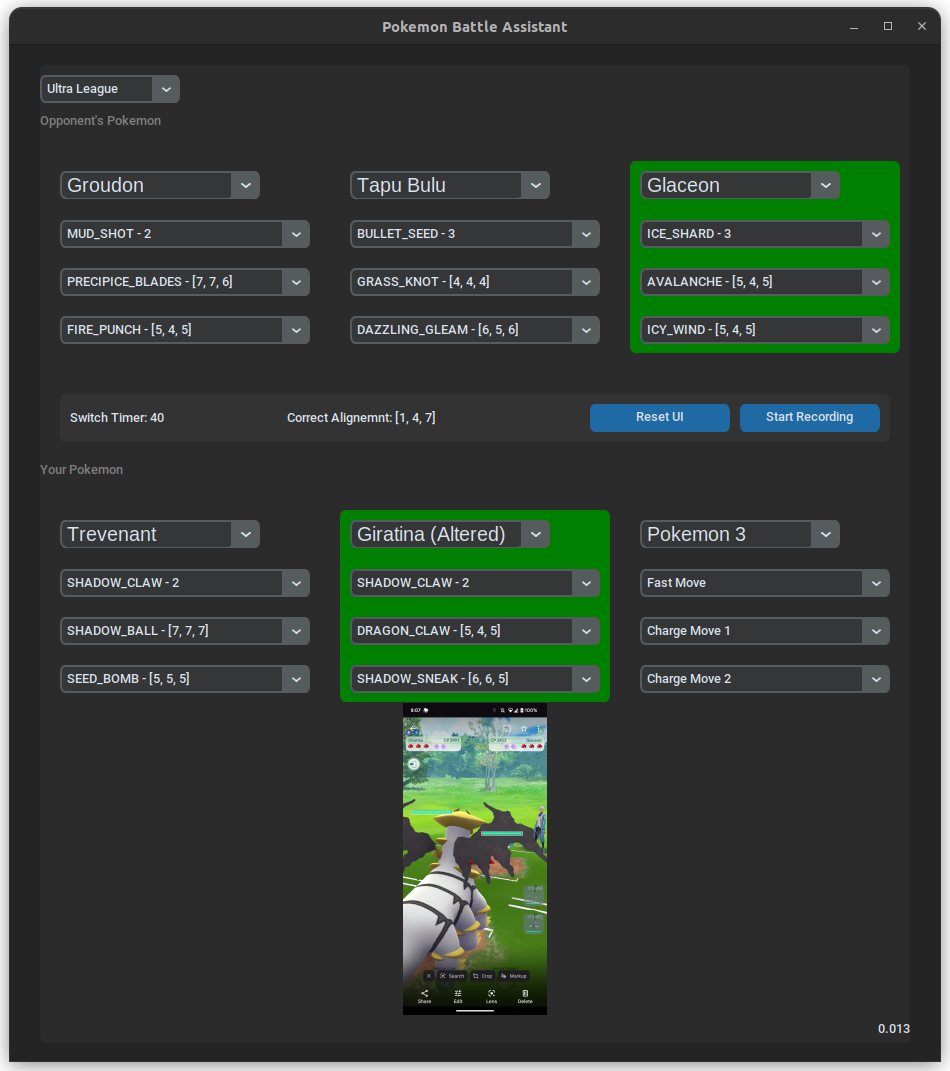
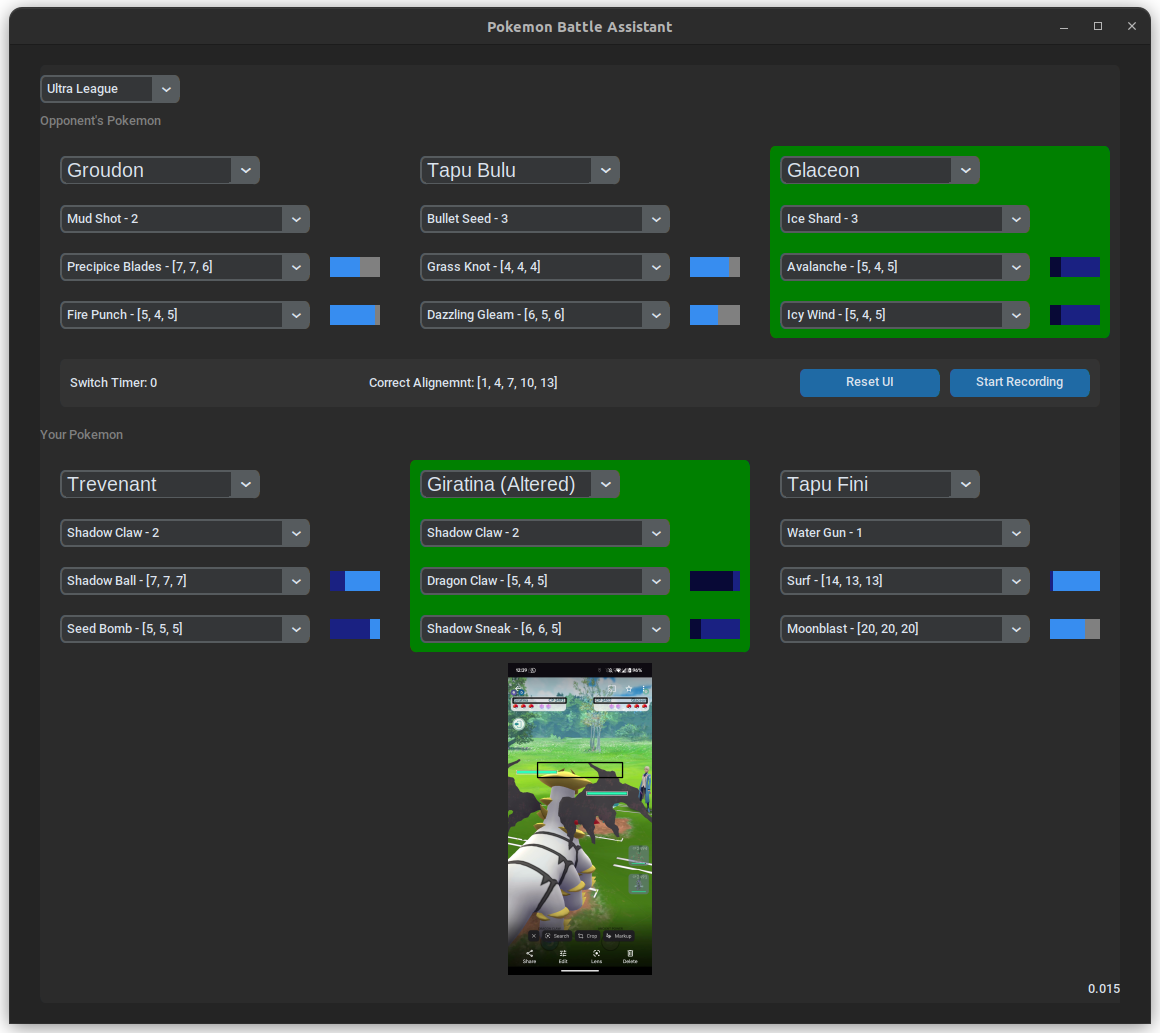
complete integration of energy accumulation and consumption (not fully working properly) / fixed reset ui

diff --git a/main.py b/main.py
@@ -160,6 +160,8 @@ class PokemonBattleAssistant(ctk.CTk):
         self.prev_opp_roi_img = np.array([])
         self.threshold = 500
         
+        self.my_info_match = None
+        self.opp_info_match = None
         self.league = None
         self.league_pok = None
 
@@ -245,17 +247,18 @@ class PokemonBattleAssistant(ctk.CTk):
 
     def charge_move_progress(self):
         for side in ['opp','me']:
-            num = self.player_map[side].current_pokemon_index
-            chosen_pk_ind = self.player_map[side].ui_chosen_pk_ind[num]
-            
-            fast_mv = self.player_map[side].pokemons[num][chosen_pk_ind].ui_chosen_moveset[0]
-            for i in [1,2]:
-                charge_mv = self.player_map[side].pokemons[num][chosen_pk_ind].ui_chosen_moveset[i]
-                accum_energy = self.player_map[side].pokemons[num][chosen_pk_ind].charge_moves[charge_mv].accum_energy[fast_mv]
-                progress = self.find_label(side,num,f'charge_move{i}_progress')
-                colors = self.progress_bar_color(accum_energy)
-                progress.set(colors[0])
-                progress.configure(fg_color=colors[1],progress_color=colors[2])
+            if self.player_map[side].initialized:
+                num = self.player_map[side].current_pokemon_index
+                chosen_pk_ind = self.player_map[side].ui_chosen_pk_ind[num]
+                
+                fast_mv = self.player_map[side].pokemons[num][chosen_pk_ind].ui_chosen_moveset[0]
+                for i in [1,2]:
+                    charge_mv = self.player_map[side].pokemons[num][chosen_pk_ind].ui_chosen_moveset[i]
+                    accum_energy = self.player_map[side].pokemons[num][chosen_pk_ind].charge_moves[charge_mv].accum_energy[fast_mv]
+                    progress = self.find_label(side,num,f'charge_move{i}_progress')
+                    colors = self.progress_bar_color(accum_energy)
+                    progress.set(colors[0])
+                    progress.configure(fg_color=colors[1],progress_color=colors[2])
                 
 
     def progress_bar_color(self,energy):
@@ -300,11 +303,30 @@ class PokemonBattleAssistant(ctk.CTk):
             print('releasing video')
             self.out.release()
 
-            
+    def extract_thrown_move(self,ocr_output):
+        match = re.search(r'(.+?) used (.+)', ocr_output)
+        if match:
+            pokemon, move = match.groups()
+            my_pk = self.my_player.pk_battle_name[self.my_player.current_pokemon_index]
+            opp_pk = self.opp_player.pk_battle_name[self.opp_player.current_pokemon_index]
+            closest = utils.closest_name(pokemon,[my_pk,opp_pk])
+            if closest == my_pk:
+                self.my_player.pokemon_energy_consumer(move)
+            elif closest == opp_pk:
+                self.opp_player.pokemon_energy_consumer(move)
+            else:
+                print("Message info did not match")
+                
+            return pokemon, move
+        else:
+            return None, None
+                
     def reset_ui(self):
 
         self.prev_my_roi_img = np.array([])
         self.prev_opp_roi_img = np.array([])
+        self.my_info_match = None
+        self.opp_info_match = None
         self.league = None
         self.league_pok = None
 
@@ -317,19 +339,21 @@ class PokemonBattleAssistant(ctk.CTk):
 
         self.current_opp_pokemon_index = None
         self.current_my_pokemon_index = None
-        for number in range(len(self.my_pokemon_frames)):
-            self.update_label('me',number, 'pokemon_name_label', f'Pokemon {number+1}')
-            for move,move_disp in zip(self.move_type,self.move_type_disp):
-                self.update_label('me',number, move, move_disp)
-        for number in range(len(self.opp_pokemon_frames)):
-            self.update_label('opp',number, 'pokemon_name_label', f'Pokemon {number+1}')
-            for move,move_disp in zip(self.move_type,self.move_type_disp):
-                self.update_label('opp',number, move, move_disp)
+        for side in ['opp','me']:
+            for number in range(len(self.frames_map[side])):
+                self.update_label(side,number, 'pokemon_name_label', f'Pokemon {number+1}')
+                for move,move_disp in zip(self.move_type,self.move_type_disp):
+                    self.update_label(side,number, move, move_disp)
+                for charge_mv_num in [1,2]:
+                    progress = self.find_label(side,number,f'charge_move{charge_mv_num}_progress')
+                    progress.set(0)
+                    colors = self.progress_bar_color(0)
+                    progress.configure(fg_color=colors[1],progress_color=colors[2])
+                self.highlight_off(self.frames_map[side][number])
+
         self.switch_timer_label.configure(text=f"Switch Timer: ")
         self.correct_alignment_label.configure(text="Correct Alignemnt: ")
-        for my_frame,opp_frame in zip(self.my_pokemon_frames,self.opp_pokemon_frames):
-            self.highlight_off(my_frame)
-            self.highlight_off(opp_frame)
+
 
     def vid_stream(self):
         while self.record_vid:
@@ -404,20 +428,20 @@ class PokemonBattleAssistant(ctk.CTk):
                         self.league_combobox.set(self.league)
                     
                 # Extract Pokémon names
-                my_info_match = re.search(r'([A-Z][a-z]+(?:\s[A-Z][a-z]+)?)', my_info)
-                opp_info_match = re.search(r'([A-Z][a-z]+(?:\s[A-Z][a-z]+)?)', opp_info)
+                self.my_info_match = re.search(r'([A-Z][a-z]+(?:\s[A-Z][a-z]+)?)', my_info)
+                self.opp_info_match = re.search(r'([A-Z][a-z]+(?:\s[A-Z][a-z]+)?)', opp_info)
 
                 if self.league:
-                    if my_info_match and opp_info_match:
-                        my_info_name = my_info_match.group(0)
-                        opp_info_name = opp_info_match.group(0)
+                    if self.my_info_match and self.opp_info_match:
+                        my_info_name = self.my_info_match.group(0)
+                        opp_info_name = self.opp_info_match.group(0)
 
-                        my_pk = match.load_pk_data(my_info_name,pokemon_names,pokemon_details,moves,self.league_pok)
-                        opp_pk = match.load_pk_data(opp_info_name,pokemon_names,pokemon_details,moves,self.league_pok)
+                        my_pk, my_pk_name = match.load_pk_data(my_info_name,pokemon_names,pokemon_details,moves,self.league_pok)
+                        opp_pk, opp_pk_name = match.load_pk_data(opp_info_name,pokemon_names,pokemon_details,moves,self.league_pok)
 
 
-                        update_me = self.my_player.add_pokemon(my_pk)
-                        update_opp = self.opp_player.add_pokemon(opp_pk)
+                        update_me = self.my_player.add_pokemon(my_pk,my_pk_name)
+                        update_opp = self.opp_player.add_pokemon(opp_pk,opp_pk_name)
 
                         self.my_player.start_update()
                         self.opp_player.start_update()
@@ -437,7 +461,8 @@ class PokemonBattleAssistant(ctk.CTk):
                             api.SetImage(thresh_msg_roi)
                             api.Recognize()
                             msg_info = api.GetUTF8Text()
-                            # print('heeeeeerererere',msg_info)
+                            pk, chr_mv = self.extract_thrown_move(msg_info)
+                            # print('------------------------',pk , '-----', chr_mv)
 
             if self.league:
                 self.my_player.pokemon_energy_updater(True)

diff --git a/match.py b/match.py
@@ -48,6 +48,9 @@ class Pokemon:
         self.recommended_moveset = None  # recommended Fast and Charge Moves based on league
         self.ui_chosen_moveset = None
         self.rating = None
+        self.used_energy = 0
+        self.last_used_charge_mv_time = 0
+        self.charge_mv_throw_cool_down = 5
 
     def __repr__(self):
         return f"{self.__class__.__name__}(species_name={self.species_name}, energy={self.energy}, time_on_field={self.time_on_field}, recommended_moveset={self.recommended_moveset})"
@@ -81,12 +84,28 @@ class Pokemon:
     
     def calculate_energy_gain(self):
         for fast_name, fast_mv in self.fast_moves.items():
-            accum_move_count = math.floor(self.time_on_field * 1000 / fast_mv.cooldown)
+            accum_move_count = math.ceil(self.time_on_field * 1000 / fast_mv.cooldown)
             for charge_mv in self.charge_moves.values():
-                accum_energy = accum_move_count * fast_mv.energy
+                accum_energy = (accum_move_count * fast_mv.energy) - self.used_energy
+                if accum_energy < 0: accum_energy = 0
                 if accum_energy >= 100: accum_energy = 100 
                 charge_mv.accum_energy[fast_name] = accum_energy / charge_mv.energy
                 
+    def calculate_energy_used(self,used_charge_mv):
+        current_time = time.time()
+        used_charge_mv = used_charge_mv.replace(" ", "_").replace("!", "").upper()
+        
+        if current_time - self.last_used_charge_mv_time < self.charge_mv_throw_cool_down:
+            return
+
+        closest_charge_mv = utils.closest_name(used_charge_mv,self.charge_moves.keys())
+        
+        if closest_charge_mv:
+            self.used_energy += self.charge_moves[closest_charge_mv].energy
+            print(self.species_name, closest_charge_mv,self.used_energy)
+
+        self.last_used_charge_mv_time = current_time
+            
     def update_time_on_field(self):
         if self.last_update_time == None: 
             return
@@ -111,7 +130,7 @@ class Pokemon:
         return counts
 
 def load_pk_data(info_name, pokemon_names, pokemon_details,moves_data,league_pok):
-    temp_corrected_name = utils.closest_pokemon_name(info_name, pokemon_names)
+    temp_corrected_name = utils.closest_name(info_name, pokemon_names)
     move_data = [item for item in pokemon_details if temp_corrected_name and item['speciesName'].startswith(temp_corrected_name)]
     
     pokemon_list = []
@@ -129,13 +148,14 @@ def load_pk_data(info_name, pokemon_names, pokemon_details,moves_data,league_pok
         
         pokemon_list.append(pokemon)
     
-    return pokemon_list
+    return pokemon_list, temp_corrected_name
 
 
 class Player:
     def __init__(self, name):
         self.name = name
         self.pokemons = [None, None, None]
+        self.pk_battle_name = [None, None, None]
         self.recommended_pk_ind = [None, None, None]
         self.ui_chosen_pk_ind = [None, None, None]
         self.current_pokemon_index = None  # Index of the current Pokemon on the field
@@ -145,8 +165,9 @@ class Player:
         self.switch_lock_timer = 0 
         self.switch_out_time = None
         self.oldest_pokemon_index = 0
+        self.initialized = False
 
-    def add_pokemon(self, pokemon_list):
+    def add_pokemon(self, pokemon_list,pk_name):
         if not pokemon_list:
             return False  # Skip this list if it's empty
         pokemon_list = [pokemon for pokemon in pokemon_list if pokemon.recommended_moveset]  # Filter out Pokemon with empty recommended_moveset
@@ -157,12 +178,15 @@ class Player:
                 return False  # Skip if Pokemon already in list
 
         if self.pokemon_count < 3:
+            self.initialized = True
             self.pokemons[self.pokemon_count] = pokemon_list
+            self.pk_battle_name[self.pokemon_count] = pk_name
             self.update_current_pokemon_index(self.pokemon_count)
             self.update_recommended_pk()
             self.pokemon_count += 1
         else:
             self.pokemons[self.oldest_pokemon_index] = pokemon_list  # Replace the oldest Pokemon with the new one
+            self.pk_battle_name[self.oldest_pokemon_index] = pk_name
             self.update_current_pokemon_index(self.oldest_pokemon_index)  
             self.update_recommended_pk()
             self.oldest_pokemon_index = (self.oldest_pokemon_index + 1) % 3  # Update the index of the oldest Pokemon
@@ -182,12 +206,18 @@ class Player:
         self.ui_chosen_pk_ind[self.current_pokemon_index] = self.recommended_pk_ind[self.current_pokemon_index] 
 
     def pokemon_energy_updater(self,update):
-        for pokemon in self.pokemons[self.current_pokemon_index]:
-            if update:
-                pokemon.update_time_on_field()
-            else:
-                pokemon.last_update_time = None
-    
+        if self.initialized:
+            for pokemon in self.pokemons[self.current_pokemon_index]:
+                if update:
+                    pokemon.update_time_on_field()
+                else:
+                    pokemon.last_update_time = None
+
+    def pokemon_energy_consumer(self,charge_mv):
+        if self.initialized:
+            for pokemon in self.pokemons[self.current_pokemon_index]:
+                pokemon.calculate_energy_used(charge_mv)
+
     def start_update(self):
         for pokemon in self.pokemons[self.current_pokemon_index]:
             pokemon.last_update_time = time.time()
@@ -251,7 +281,7 @@ if __name__ == "__main__":
     with open(league_pok, 'r') as file:
         league_pok = json.load(file)
 
-    pk = load_pk_data('tapu bulu',pokemon_names,pokemon_details,moves,league_pok)
+    pk ,pk_name = load_pk_data('tapu bulu',pokemon_names,pokemon_details,moves,league_pok)
     my_player = Player('me')
     my_player.add_pokemon(pk)
     print(my_player)

diff --git a/utils.py b/utils.py
@@ -208,7 +208,7 @@ def connect_to_device(ip):
 
 
 # Function to find the closest Pokémon name
-def closest_pokemon_name(name, names_list):
+def closest_name(name, names_list):
     closest_name = get_close_matches(name, names_list, n=1, cutoff=0.6)
     if closest_name:
         return closest_name[0]

diff --git a/README.md b/README.md
@@ -11,6 +11,7 @@
 * Dropdown menu for currently available specific meta cups imported from PvPoke
 * Dropdown menus to choose which form of pokemon (if available) is currenlty on the field, and for fast and charge moves that updates based on the chosen moves
 * Screen recording functionality
+* Energy accumulation tracking along with energy deduction when charge moves are thrown (not accurate - needs further work)
 
 # To-Do
 * Automate finding the ROI location for Pokémon information to make it work with any phone / resolution
@@ -22,7 +23,7 @@
 * <del> Add a count down from 60 seconds when the opponent switches Pokémon to know when they are no longer locked in
 * Calculate and display which Pokémon wins CMP
 * Fix switch cool down bug when opponent pokemon faints
-* Try a non CV/dummy energy counter based on time elapsed (fast move energy gain/ cooldown, and the charge moves energy requiremnt)
+* <del> Try a non CV/dummy energy counter based on time elapsed (fast move energy gain/ cooldown, and the charge moves energy requiremnt)
 * Calculate percent of health cost inflected by each charge move on both Pokémon
 * <del> Add drop down menu for pokemon with multiple forms
 * <del> Add drop down menu for modifying the fast move, that would update the charge move counts accordingly
